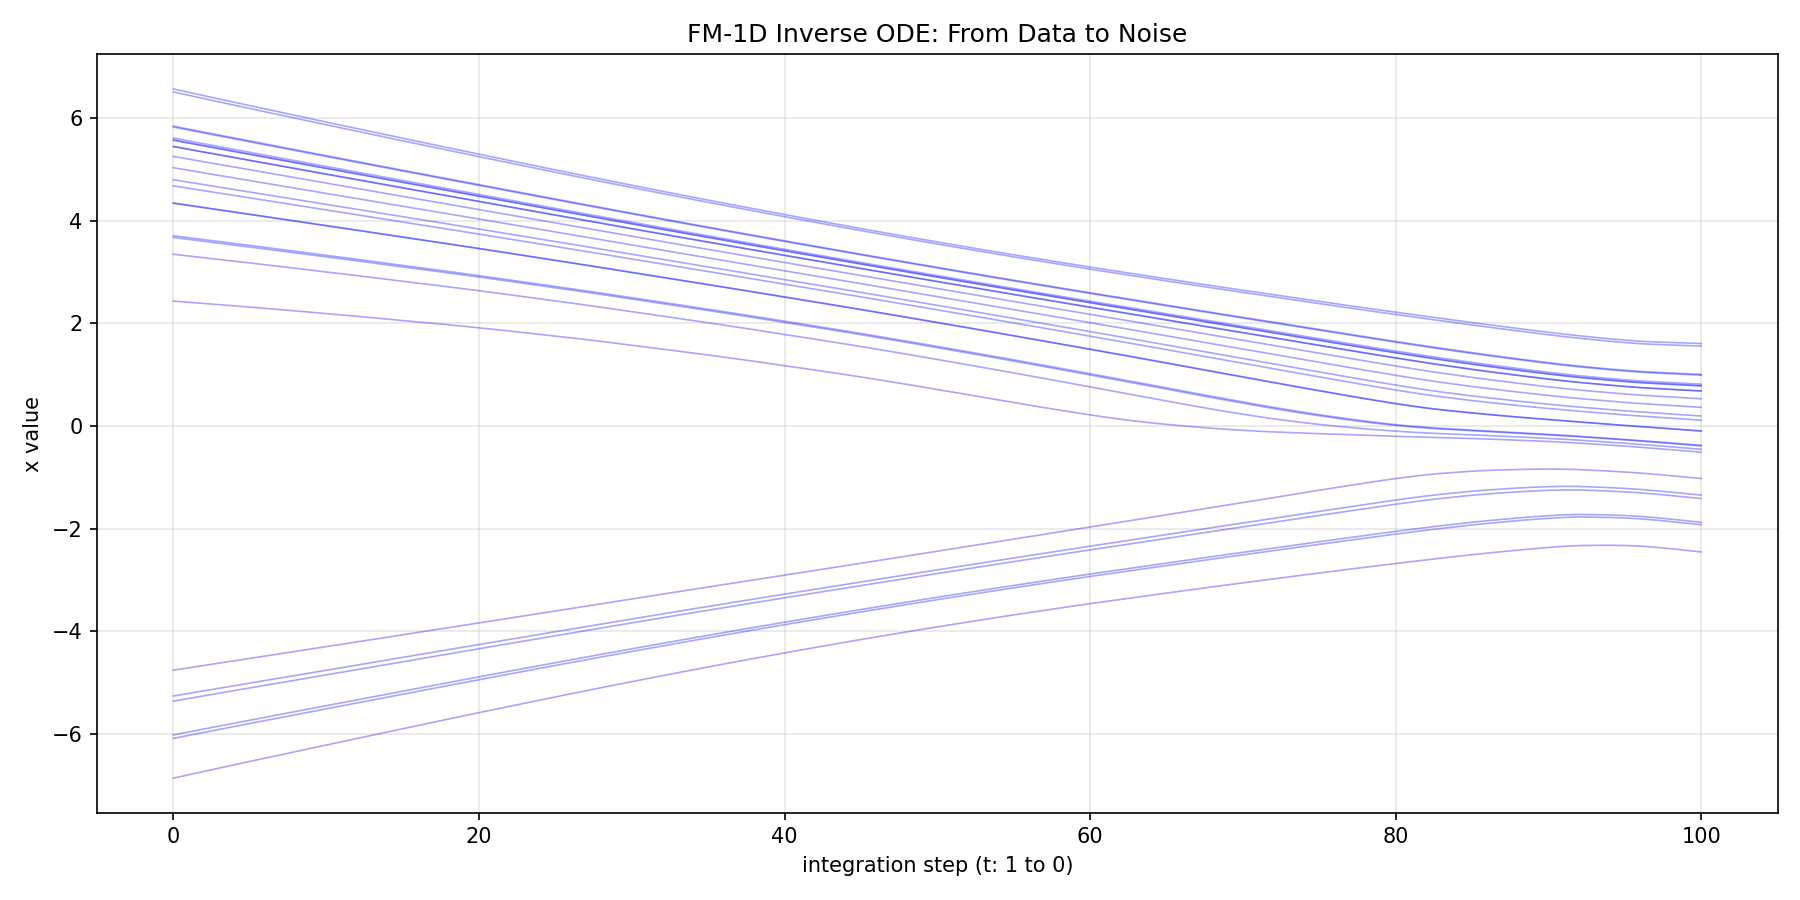
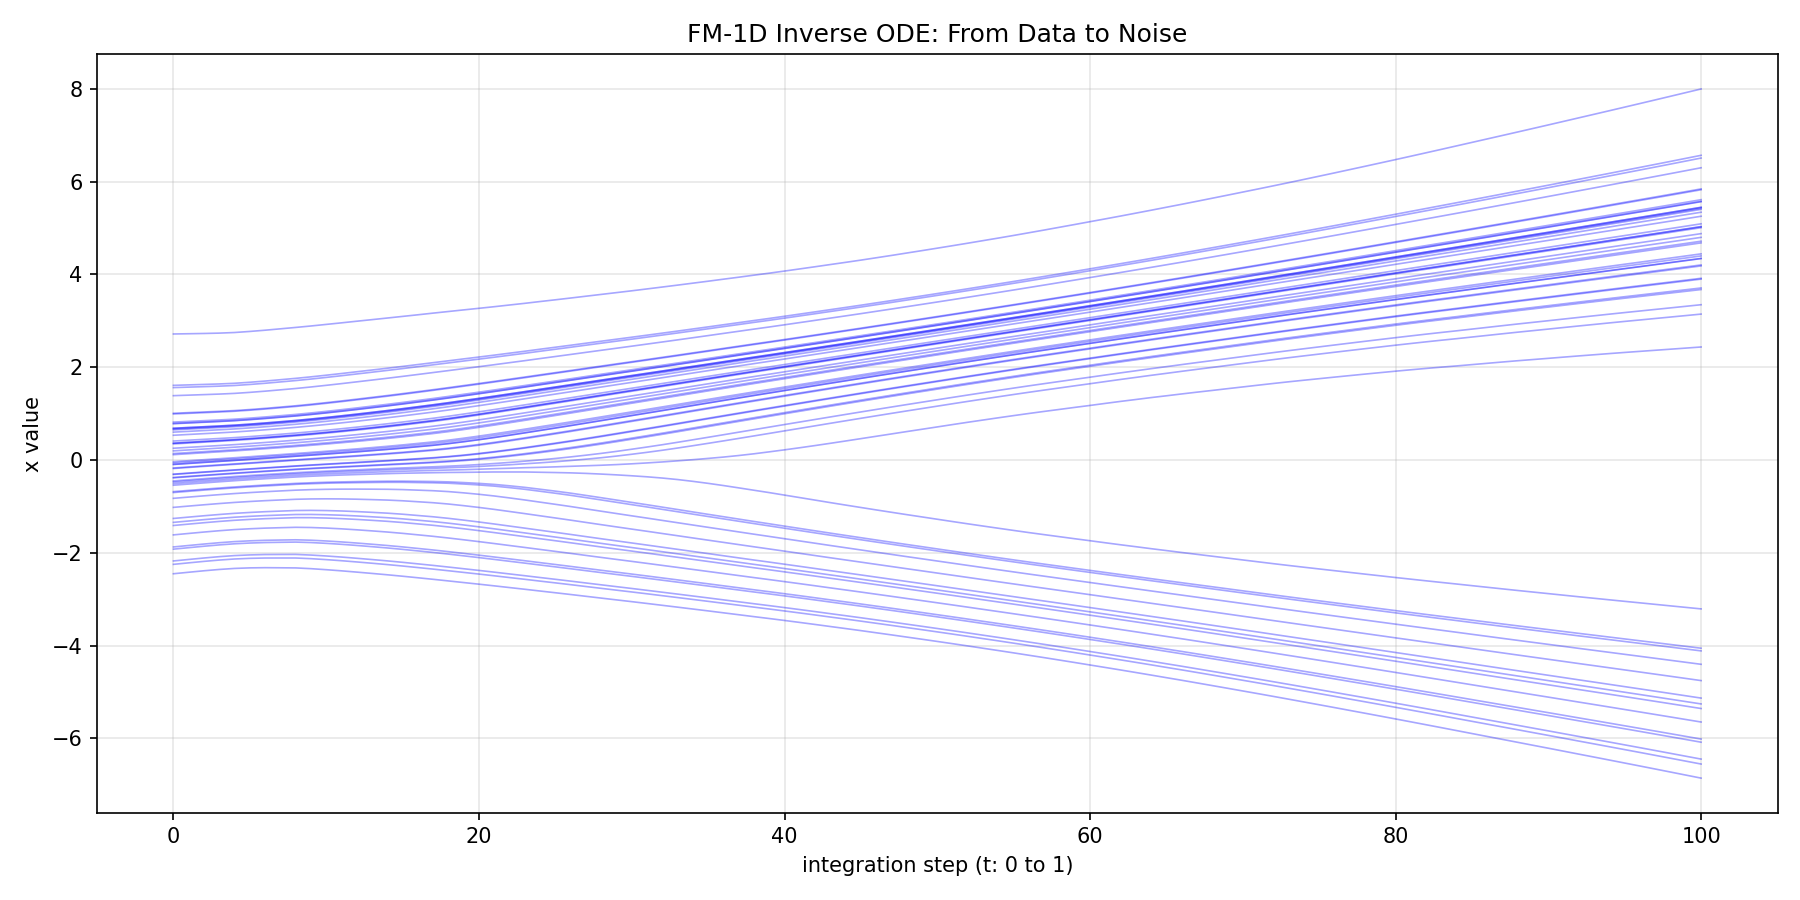
Version 0.3 commited on Nov 15 2026

diff --git a/Code/Deep_Learning/fm_1d.py b/Code/Deep_Learning/fm_1d.py
@@ -367,8 +367,8 @@ def compute_path_trajs(flow_matching, data, num_trajs):
 
     Returns:
         trajs: stacked trajectories, shape (num_steps + 1, num_trajs, 1)
-            Row 0 is t = 1 (data, plus sigma_min * noise) and the last
-            row is t = 0 (noise)
+            Row 0 is t = 0 (noise) and the last row is t = 1 (data,
+            plus sigma_min * noise)
     """
     num_steps = flow_matching.num_steps
     device = flow_matching.device
@@ -377,8 +377,8 @@ def compute_path_trajs(flow_matching, data, num_trajs):
     x_0 = torch.randn_like(x_1)
     traj_points = []
 
-    # Interpolate deterministically from data (t = 1) to noise (t = 0)
-    for i in range(num_steps, -1, -1):
+    # Interpolate deterministically from noise (t = 0) to data (t = 1)
+    for i in range(num_steps + 1):
         t_batch = torch.full((x_1.size(0),), i / num_steps, device=device)
         x_t, _ = flow_matching.compute_location_and_velocity(x_1, t_batch, x_0)
         traj_points.append(x_t.cpu().clone())
@@ -424,12 +424,17 @@ def invert_ode_trajs(model, flow_matching, data, num_trajs):
 
     Returns:
         trajs: stacked trajectories, shape (num_steps + 1, num_trajs, 1)
-            Row 0 is t = 1 (data) and the last row is t = 0 (noise)
+            Row 0 is t = 0 (latent noise) and the last row is t = 1 (data).
+            The ODE is integrated from t = 1 to t = 0, then flipped for display.
     """
     device = flow_matching.device
 
     x_1 = data[:num_trajs].to(device)
     _, trajs = flow_matching.invert_ode(model, x_1, return_traj=True)
+
+    # Integration runs from t = 1 to t = 0. Flip the time axis for display,
+    # so that row 0 is t = 0 (noise) and the last row is t = 1 (data)
+    trajs = torch.flip(trajs, dims=[0])
     return trajs
 
 
@@ -599,7 +604,7 @@ if __name__ == "__main__":
     pf.plot_training_curve(loss_log, MODEL_NAME, y_label="MSE loss")
 
     # Number of trajectories to compute
-    num_trajs = min(25, num_samples)
+    num_trajs = min(50, num_samples)
 
     # Plot the conditional path (no model) from data to noise
     print("Plotting conditional path (no model) from data to noise")
@@ -609,7 +614,7 @@ if __name__ == "__main__":
         title=f"{MODEL_NAME} Conditional Path: From Data to Noise",
         file_name=pf.default_file_name(MODEL_NAME, "traj_path"),
         color="green",
-        xlabel="integration step (t: 1 to 0)",
+        xlabel="integration step (t: 0 to 1)",
         num_trajs=num_trajs,
     )
 
@@ -626,14 +631,14 @@ if __name__ == "__main__":
     )
 
     # Plot the inverse ODE from data to noise
-    print("Plotting inverse ODE from data to noise")
+    print("Plotting inverse ODE from data to noise, shown in forward time")
     inverse_ode_trajs = invert_ode_trajs(model, flow_matching, data, num_trajs)
     pf.plot_1d_trajs(
         inverse_ode_trajs,
         title=f"{MODEL_NAME} Inverse ODE: From Data to Noise",
         file_name=pf.default_file_name(MODEL_NAME, "traj_invert"),
         color="blue",
-        xlabel="integration step (t: 1 to 0)",
+        xlabel="integration step (t: 0 to 1)",
         num_trajs=num_trajs,
     )
 

diff --git a/Code/Deep_Learning/plot_functions.py b/Code/Deep_Learning/plot_functions.py
@@ -281,6 +281,7 @@ def plot_1d_trajs(
     color="green",
     xlabel="step",
     num_trajs=25,
+    reverse=False,
 ):
     """
     Plot a subset of 1D trajectories, one figure per call. The caller decides
@@ -295,9 +296,18 @@ def plot_1d_trajs(
         color: colour of the trajectory lines
         xlabel: label of the horizontal axis
         num_trajs: number of trajectories to draw, a positive integer
+        reverse: if True, the trajectory is a reverse (denoising) process and
+            the horizontal axis shows t = T, T-1, ..., 0 from left to right;
+            if False, the axis shows 0, 1, ..., T
     """
-
     traj = _to_numpy(traj)
+
+    # Horizontal axis: snapshot k of a reverse process is x_{T-k}
+    num_steps = traj.shape[0] - 1
+    if reverse:
+        times = np.arange(num_steps, -1, -1)
+    else:
+        times = np.arange(num_steps + 1)
 
     # Pick evenly spaced trajectories instead of a hard-coded subset
     num_available = traj.shape[1]
@@ -306,7 +316,11 @@ def plot_1d_trajs(
 
     fig, ax = plt.subplots(figsize=(12, 6))
     for index in indices:
-        ax.plot(traj[:, index, 0], color=color, alpha=0.35, linewidth=0.8)
+        ax.plot(times, traj[:, index, 0], color=color, alpha=0.35, linewidth=0.8)
+
+    # Keep the first snapshot (pure noise) on the left, with t decreasing to 0
+    if reverse:
+        ax.invert_xaxis()
 
     ax.set_xlabel(xlabel)
     ax.set_ylabel("x value")
@@ -331,7 +345,6 @@ def plot_1d_score_function(
         file_name: name of the saved file, without directory and extension
         sigma: optional noise level shown in the legend
     """
-
     label = (
         f"learned score (sigma = {sigma:.3f})" if sigma is not None else "learned score"
     )
@@ -359,7 +372,6 @@ def plot_1d_velocity_field(field, x_range, title, file_name):
         title: title of the plotted velocity field
         file_name: name of the saved file, without directory and extension
     """
-
     fig, ax = plt.subplots(figsize=(10, 6))
     vmax = float(np.abs(field).max())
     image = ax.imshow(
@@ -394,7 +406,6 @@ def plot_1d_gen_samples(
         gmm_pdf: mapping a grid to the value of GMM density function
         grid_range: (min, max) range of the evaluation grid for gmm_pdf
     """
-
     data = _to_numpy(data).reshape(-1)
     samples = _to_numpy(samples).reshape(-1)
 
@@ -450,7 +461,6 @@ def plot_generated_images(
         show: whether to display the grid, False when called once per epoch
             inside a training loop
     """
-
     images = _to_numpy(gen_images)
 
     # Rescale from value_range to the display range [0, 1]
@@ -509,7 +519,6 @@ def plot_generation_progress(
         value_range: (low, high) value range of gen_images, rescaled to [0, 1] for display
         show: whether to display the grid
     """
-
     num_snapshots = len(trajs)
     num_rows = max(1, min(num_rows, len(trajs[0])))
     num_cols = max(1, min(num_cols, num_snapshots))

diff --git a/Code/Deep_Learning/smld_1d.py b/Code/Deep_Learning/smld_1d.py
@@ -572,7 +572,7 @@ if __name__ == "__main__":
     )
 
     # Number of trajectories to compute
-    num_trajs = min(25, num_samples)
+    num_trajs = min(50, num_samples)
 
     # Plot the forward diffusion (noise-adding) process
     print("Plotting forward noise-adding process")
@@ -596,8 +596,9 @@ if __name__ == "__main__":
         title=f"{MODEL_NAME} Reverse: Noise to Data",
         file_name=pf.default_file_name(MODEL_NAME, "traj_reverse"),
         color="blue",
-        xlabel="predictor-corrector step (sigma max to sigma min)",
+        xlabel="remaining predictor-corrector steps (sigma max to sigma min)",
         num_trajs=num_trajs,
+        reverse=True,
     )
 
     # Learned score vs analytic score

diff --git a/Code/Deep_Learning/ddpm_1d.py b/Code/Deep_Learning/ddpm_1d.py
@@ -427,7 +427,7 @@ if __name__ == "__main__":
     pf.plot_training_curve(loss_log, MODEL_NAME, y_label="MSE loss")
 
     # Number of trajectories to compute
-    num_trajs = min(25, num_samples)
+    num_trajs = min(50, num_samples)
 
     # Plot the forward diffusion (noise-adding) process
     print("Plotting forward diffusion process")
@@ -449,8 +449,9 @@ if __name__ == "__main__":
         title=f"{MODEL_NAME} Reverse: Noise to Data",
         file_name=pf.default_file_name(MODEL_NAME, "traj_reverse"),
         color="blue",
-        xlabel="reverse time step",
+        xlabel="time step t (from T to 0)",
         num_trajs=num_trajs,
+        reverse=True,
     )
 
     # Sample from the learned model

diff --git a/Code/Supervised_Learning/feedforward_network_multiclass.py b/Code/Supervised_Learning/feedforward_network_multiclass.py
@@ -418,7 +418,7 @@ if __name__ == "__main__":
 
     # Plot training loss of ffn multiclass
     pf.plot_training_curve(
-        model.loss_log, "FFN-Multiclass", "Cross-Entropy Loss"
+        model.loss_log, "Feedforward Network Multiclass Classifier", "Cross-Entropy Loss"
     )
 
     # Evaluate on training set

diff --git a/Code/Supervised_Learning/feedforward_network_binary.py b/Code/Supervised_Learning/feedforward_network_binary.py
@@ -358,7 +358,7 @@ if __name__ == "__main__":
 
     # Plot training loss of ffn binary
     pf.plot_training_curve(
-        model.loss_log, "FFN-Binary", "Logistic Loss"
+        model.loss_log, "Feedforward Network Binary Classifier", "Logistic Loss"
     )
 
     # Evaluate on training set
